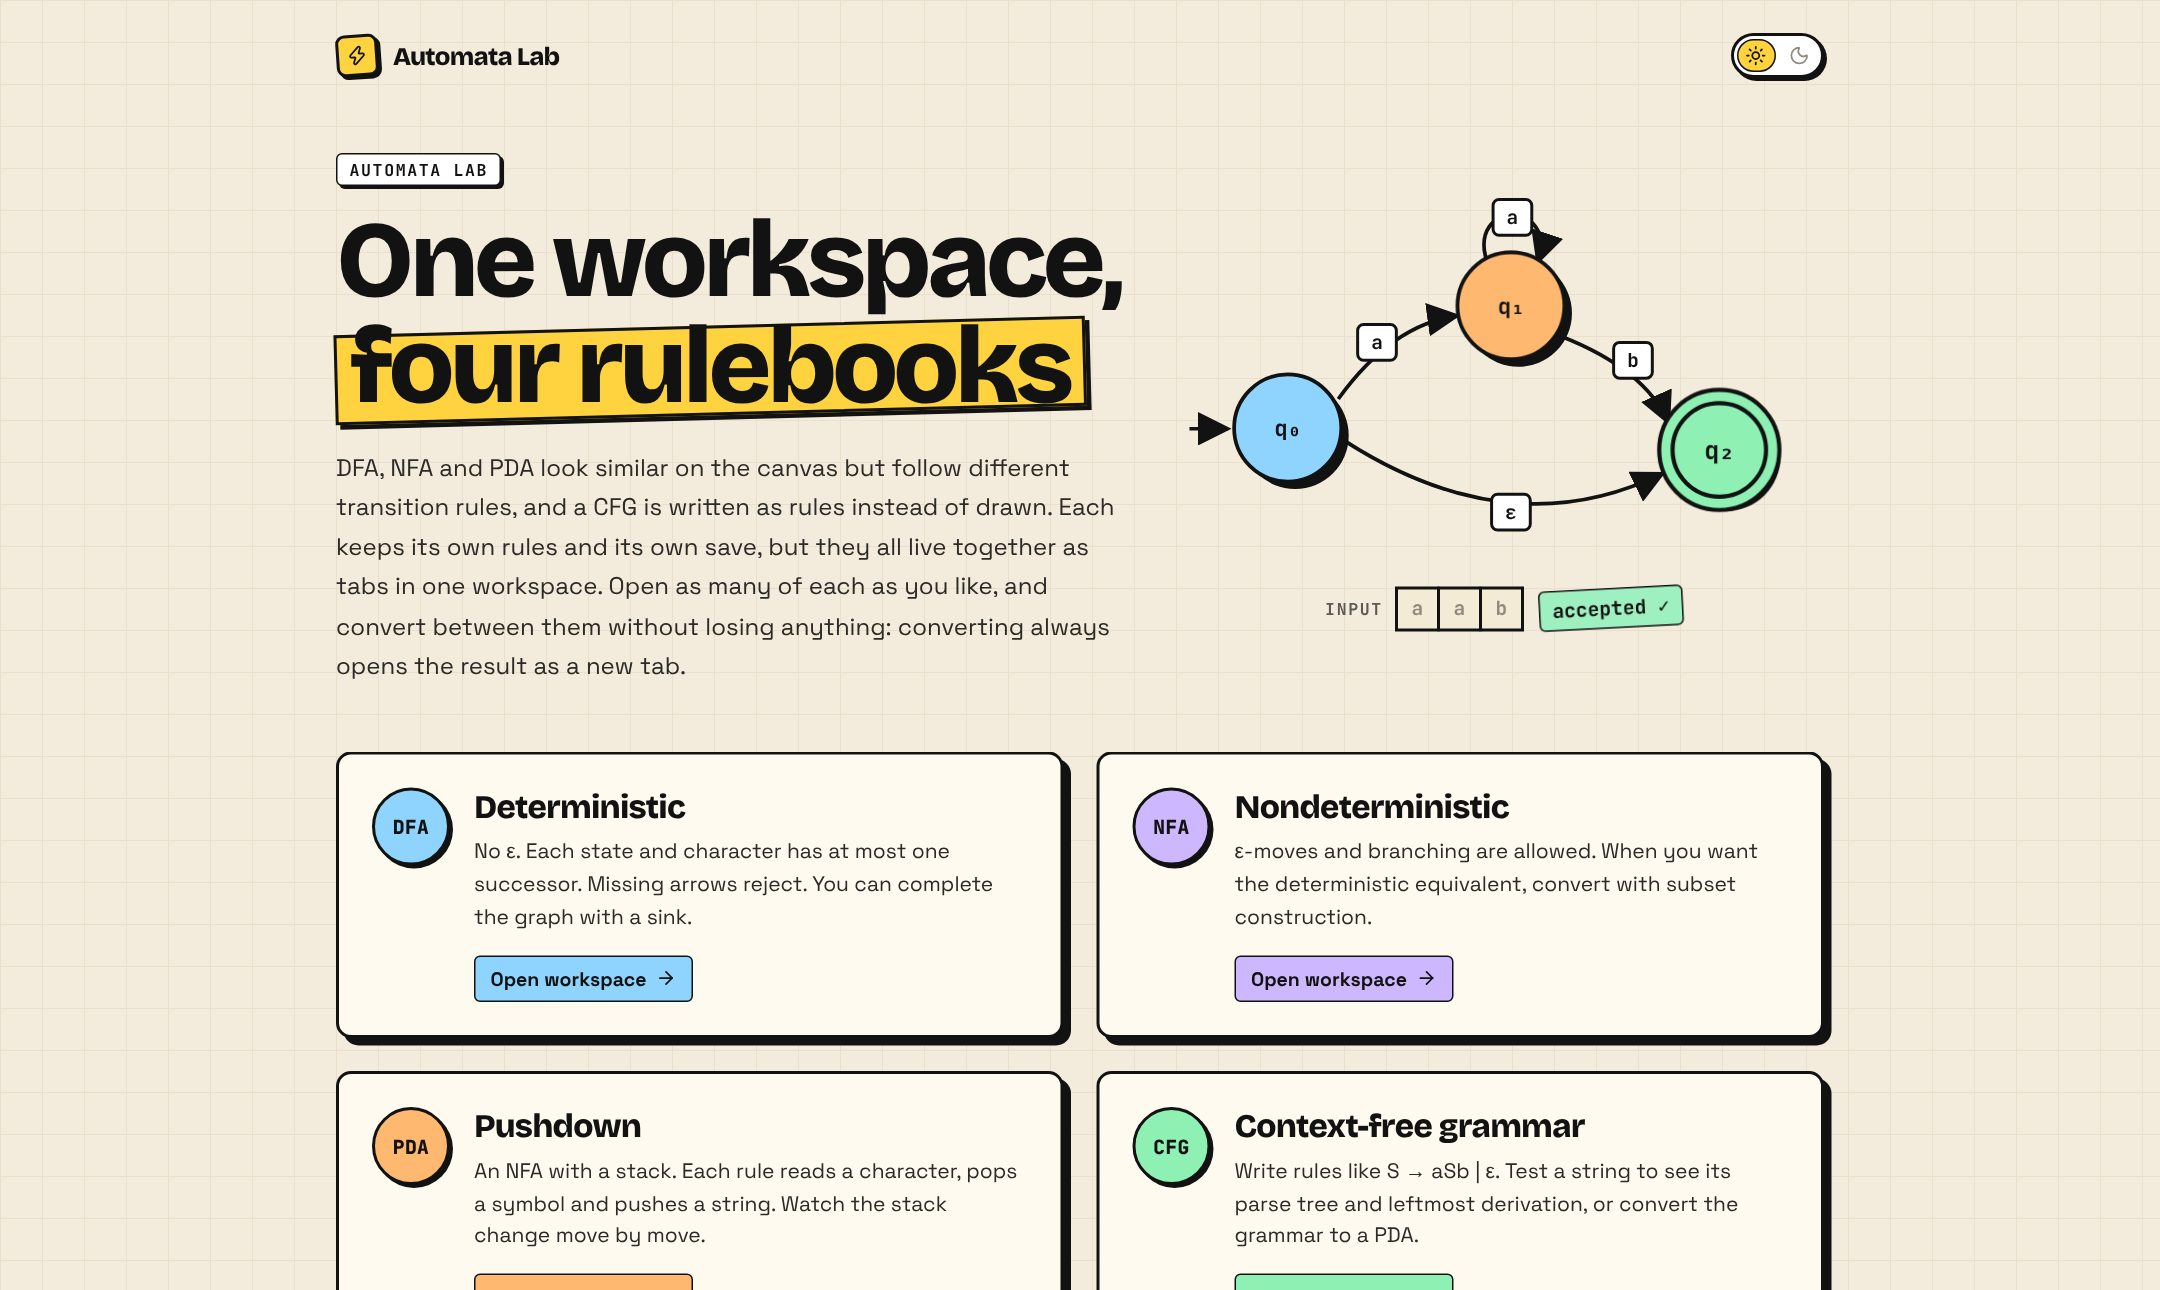
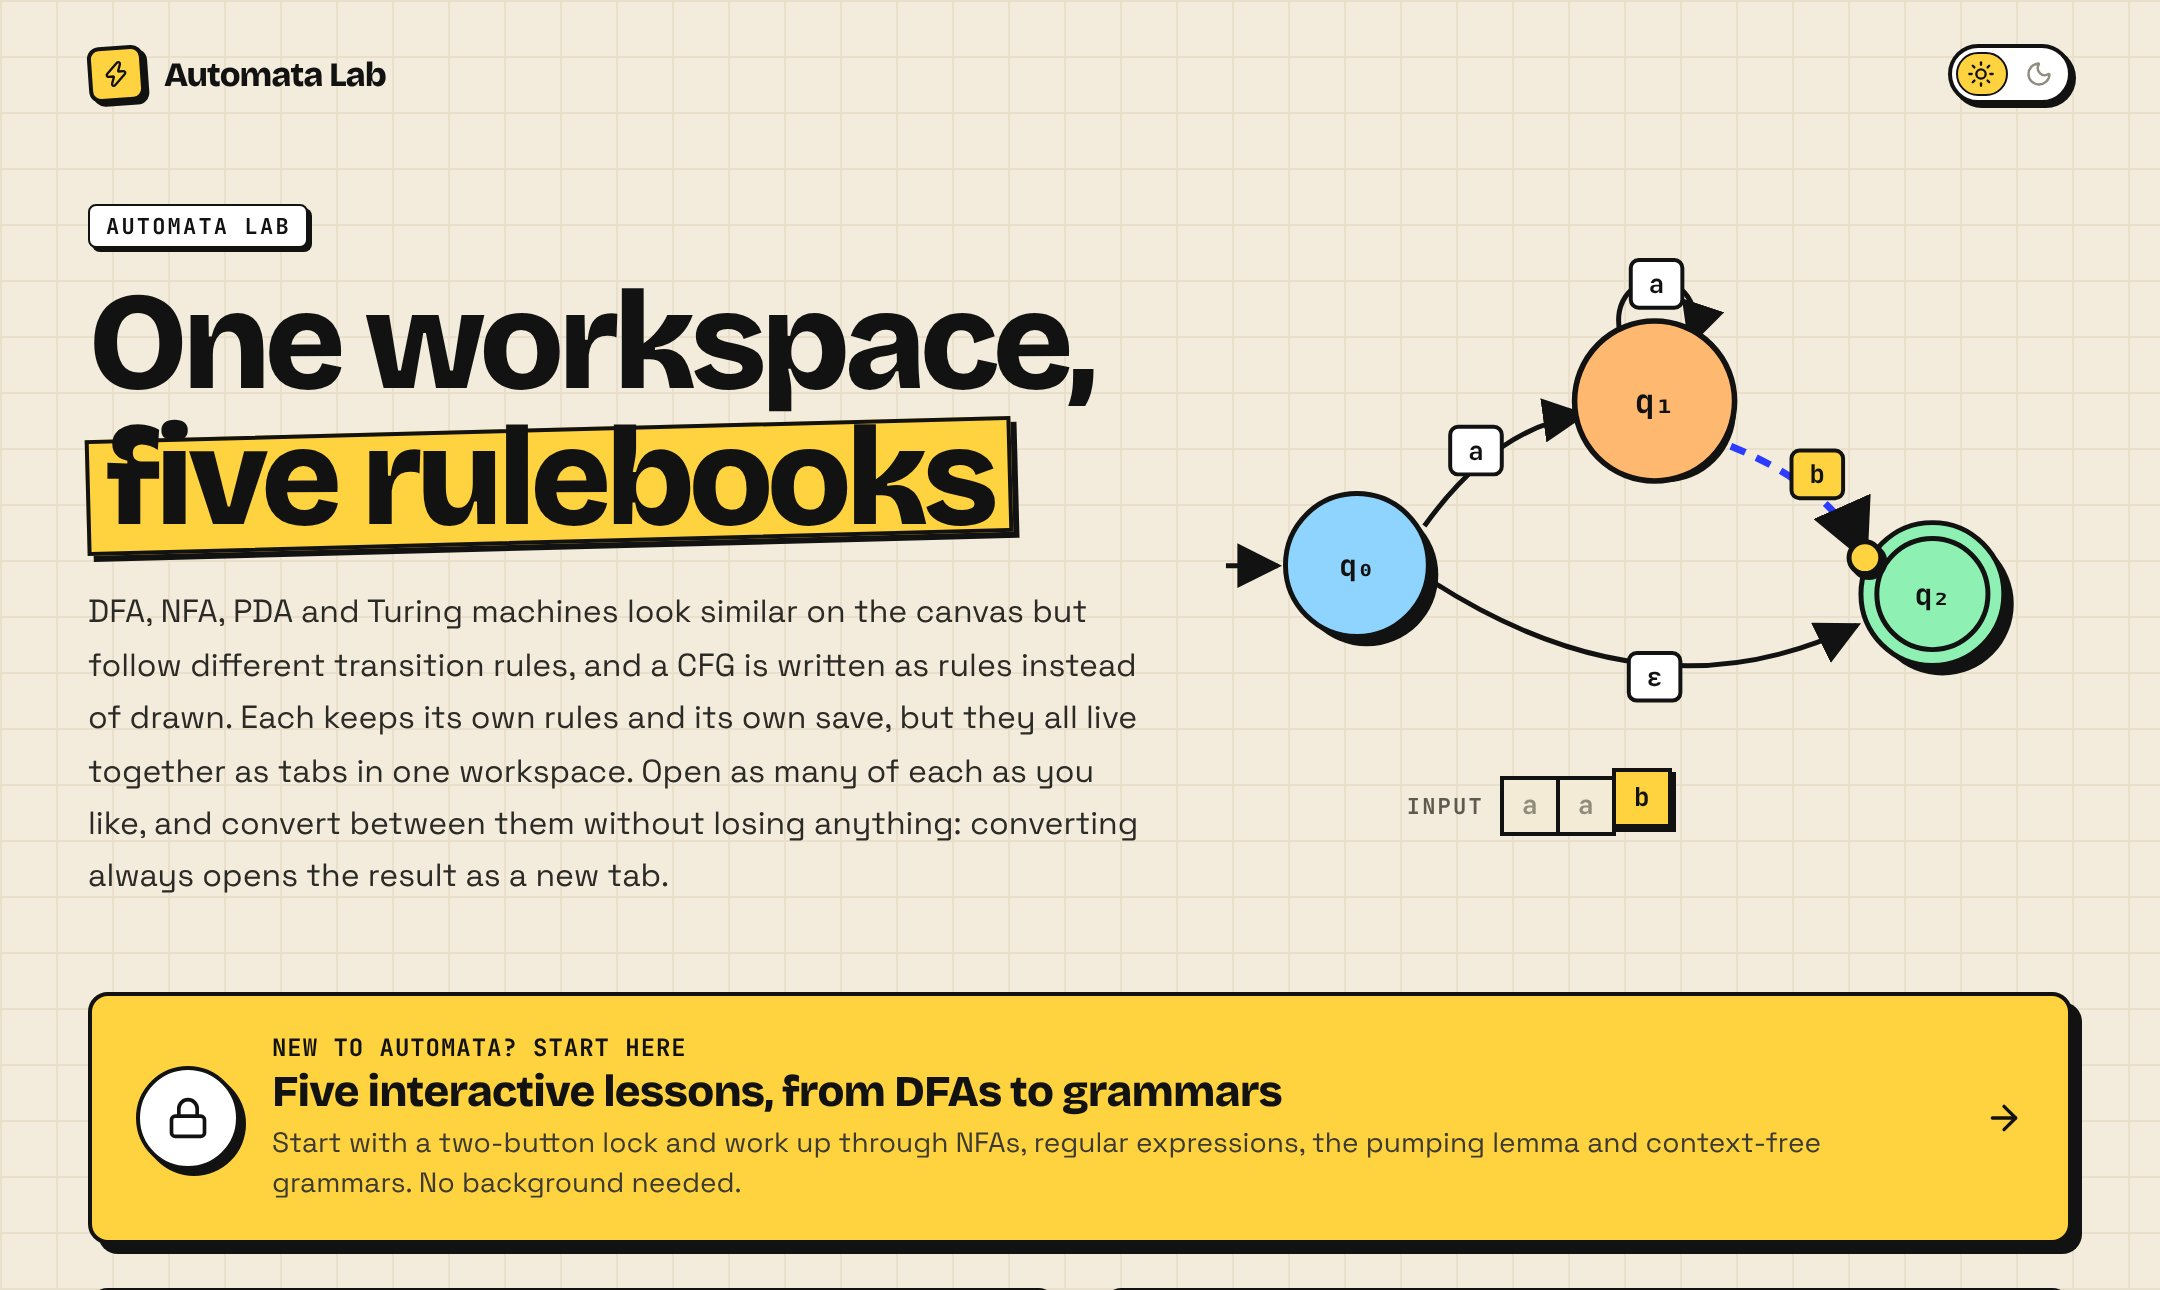
README: lessons section, quick tour, fresh home screenshot
Claude-Session: https://claude.ai/code/session_01YUgbc44jvWjJUEs8oCoaca

diff --git a/README.md b/README.md
@@ -2,9 +2,9 @@
 
 # ⚡ Automata Lab
 
-**Draw finite and pushdown automata, write grammars, and watch strings walk through them.**
+**Learn automata theory by doing it: draw DFAs, NFAs, PDAs and Turing machines, write grammars, and watch strings walk through them.**
 
-A loud, hands-on DFA / NFA / PDA / CFG workbench that runs entirely in your browser. No account, no backend, and a cat.
+A loud, hands-on DFA / NFA / PDA / TM / CFG workbench with five interactive lessons for complete beginners. It runs entirely in your browser. No account, no backend, and a cat.
 
 [![Live demo](https://img.shields.io/badge/▶_Live_demo-xiaogao0616.github.io%2Flumina-ffd23f?style=for-the-badge&labelColor=121212)](https://xiaogao0616.github.io/lumina/)
 
@@ -15,7 +15,7 @@ A loud, hands-on DFA / NFA / PDA / CFG workbench that runs entirely in your brow
 ![Tests](https://img.shields.io/badge/tests-150_passing-34d399)
 ![No backend](https://img.shields.io/badge/backend-none-67e8f9)
 
-<img src="docs/screenshot-home.jpg" alt="The Automata Lab home page: a bold headline, an animated automaton reading aab and accepting it, and one card per workspace" width="100%">
+<img src="docs/screenshot-home.jpg" alt="The Automata Lab home page: the headline One workspace, five rulebooks, an animated automaton reading aab, and a yellow banner linking to five interactive lessons" width="100%">
 
 </div>
 
@@ -26,6 +26,8 @@ A loud, hands-on DFA / NFA / PDA / CFG workbench that runs entirely in your brow
 A whiteboard for **automata theory**. Drag states onto a canvas, click to connect them, label the arrows, then type a string and **watch it move through the machine** until it is accepted or rejected. For grammars you type the rules instead and watch the parse tree grow.
 
 It's made for students learning formal languages, TAs who need a quick example, and anyone who wants to check a homework DFA, PDA, Turing machine or grammar before handing it in.
+
+**Never seen an automaton?** Start with the [interactive lessons](https://xiaogao0616.github.io/lumina/learn/). They take you from your first DFA to context-free grammars in about half an hour, one small task at a time.
 
 Five workspaces share one window as tabs, so a grammar can sit right next to the PDA you built from it.
 
@@ -42,6 +44,30 @@ Five workspaces share one window as tabs, so a grammar can sit right next to the
 <br><sub>An NFA tab, starting with a machine for strings that contain <code>aa</code> or <code>bb</code>. Every workspace gets its own colour: blue for DFA, violet for NFA, orange for PDA, lime for TM, green for CFG.</sub>
 </div>
 
+## 📖 Learn from zero
+
+Automata theory is hard to pick up from a canvas alone, so [`/learn`](https://xiaogao0616.github.io/lumina/learn/) has five short lessons in the style of Brilliant. They follow Sipser chapters 1 and 2 and need no background. Every step asks you to do something (press buttons, tap a state, predict an answer, write a regex or a grammar) and Continue unlocks only once you've done it. The lesson page ticks the ones you've finished.
+
+| # | Lesson | What you do |
+| --- | --- | --- |
+| 1 | [**What is a DFA?**](https://xiaogao0616.github.io/lumina/learn/dfa/) | Open a two-button lock, look inside it, name the parts, predict accept or reject, spot a missing arrow, and finish your first machine |
+| 2 | [**Machines that can guess**](https://xiaogao0616.github.io/lumina/learn/nfa/) | Watch an NFA split into copies, find which copies survive, follow ε-arrows, and find the matching state in its subset-construction DFA |
+| 3 | [**Regular expressions**](https://xiaogao0616.github.io/lumina/learn/regex/) | Predict what union, concatenation and star match, read regexes aloud, write one that's checked on every string up to length 7, and see each regex's smallest DFA |
+| 4 | [**What finite memory can't do**](https://xiaogao0616.github.io/lumina/learn/nonregular/) | Break a DFA that tries to count aⁿbⁿ, find the state that must repeat, and pump the loop: the pumping lemma, discovered step by step |
+| 5 | [**Grammars that grow strings**](https://xiaogao0616.github.io/lumina/learn/cfg/) | Derive strings by tapping rules, see a grammar generate aⁿbⁿ and balanced parentheses, and write a grammar for even palindromes |
+
+Turing machines and decidability come later as lessons. Until then there's the TM workspace and the [deciders page](https://xiaogao0616.github.io/lumina/deciders/).
+
+The first time you open a workspace, a **three-step quick tour** shows how to add states, draw transitions and test a string. The `?` in the Components panel brings it back.
+
+<div align="center">
+<img src="docs/screenshot-learn.jpg" alt="The lesson page: From your first DFA to context-free grammars, with lessons 1 and 2 ticked as done and a Continue with lesson 3 button" width="100%">
+<br><sub>The lesson page remembers which lessons you've finished.</sub>
+<br><br>
+<img src="docs/screenshot-lesson.jpg" alt="Lesson 2, One letter, two arrows: an NFA for strings ending in ab with two states lit after typing a b" width="100%">
+<br><sub>Lesson 2: press <b>a</b> and <b>b</b> and watch the NFA's copies split and die.</sub>
+</div>
+
 ## ✨ Features
 
 <table>
@@ -52,7 +78,6 @@ Five workspaces share one window as tabs, so a grammar can sit right next to the
 - Drag-and-drop **start / normal / accept** states
 - Click a state, then a target, to draw a transition; put **several characters** on one arrow
 - Custom state categories (`r₀, r₁, …`), each made as start, plain or accept states
-- A three-step quick tour on your first visit (reopen it from the `?` in the Components panel)
 - Change a placed state's kind from its hover menu: toggle **accepting**, or **make it the start state**. Its transitions stay put
 - A start state can also accept
 - Drag a state back onto the side panel to delete it; the panel turns into a big **delete zone** while you drag
@@ -138,12 +163,6 @@ Five workspaces share one window as tabs, so a grammar can sit right next to the
 
 ## 🎓 Practice and proofs
 
-- **Interactive lessons** at `/learn`, linked at the top of the home page: five short lessons for someone who has never seen an automaton, following Sipser chapters 1 and 2. Each step unlocks once you've done its task, and the index marks the lessons you've finished.
-  1. **What is a DFA?** Open a two-button lock, look inside it, name the parts, predict accept or reject, spot a missing arrow, and finish your first machine.
-  2. **Machines that can guess.** Watch an NFA split into copies, find which copies survive, follow ε-arrows, and tap the matching state of its subset-construction DFA.
-  3. **Regular expressions.** Predict what union, concatenation and star match, read regexes aloud, write one that is checked on every string up to length 7, and see each regex's smallest DFA.
-  4. **What finite memory can't do.** Break a DFA that tries to count aⁿbⁿ, find the state that must repeat, and pump the loop: the pumping lemma, discovered step by step.
-  5. **Grammars that grow strings.** Derive strings by tapping rules, see a grammar generate aⁿbⁿ and balanced parentheses, and write a grammar for even palindromes.
 - **Practice mode** (the green **Practice** button in the toolbar): twelve languages to build a DFA or NFA for. *Check my answer* compares your machine with the reference exactly and names the shortest string it gets wrong.
 - **Compare or combine** two tabs: an equivalence check with shortest counterexamples, plus union, intersection and difference by product construction, and complement.
 - **DFA/NFA → regex** by state elimination, in the same syntax Regex → NFA reads.
@@ -206,7 +225,7 @@ flowchart LR
 
 ## 🚀 Try it
 
-**In the browser:** open the [live demo](https://xiaogao0616.github.io/lumina/). There's nothing to install.
+**In the browser:** open the [live demo](https://xiaogao0616.github.io/lumina/). There's nothing to install. New to the subject? Begin with [lesson 1](https://xiaogao0616.github.io/lumina/learn/dfa/).
 
 **Locally:**
 
@@ -269,7 +288,7 @@ The PDA and CFG workspaces follow the conventions in Sipser's *Introduction to t
 
 ## 🧠 Under the hood
 
-All the theory lives in plain, tested TypeScript under [`lib/`](lib/), separate from the UI:
+All the theory lives in plain, tested TypeScript under [`lib/`](lib/), separate from the UI. The lessons reuse it too: `components/lesson-kit.tsx` holds their shared diagram, answer widgets and step shell.
 
 | Module | What it does |
 | --- | --- |
@@ -291,6 +310,7 @@ All the theory lives in plain, tested TypeScript under [`lib/`](lib/), separate 
 | `deciders.ts` / `decider-examples.ts` | The chapter 4 deciders with a trace of every stage, and their example inputs |
 | `exercises.ts` / `pumping.ts` | Practice exercises and their checker; languages and splits for the pumping lemma game |
 | `share-link.ts` / `graph-tikz.ts` | Compressed share links; TikZ and LaTeX export |
+| `lessons.ts` | The lesson list and the progress saved in this browser |
 | `editor-storage.ts` | Versioned, validated local saves and tab index |
 
 ```bash
